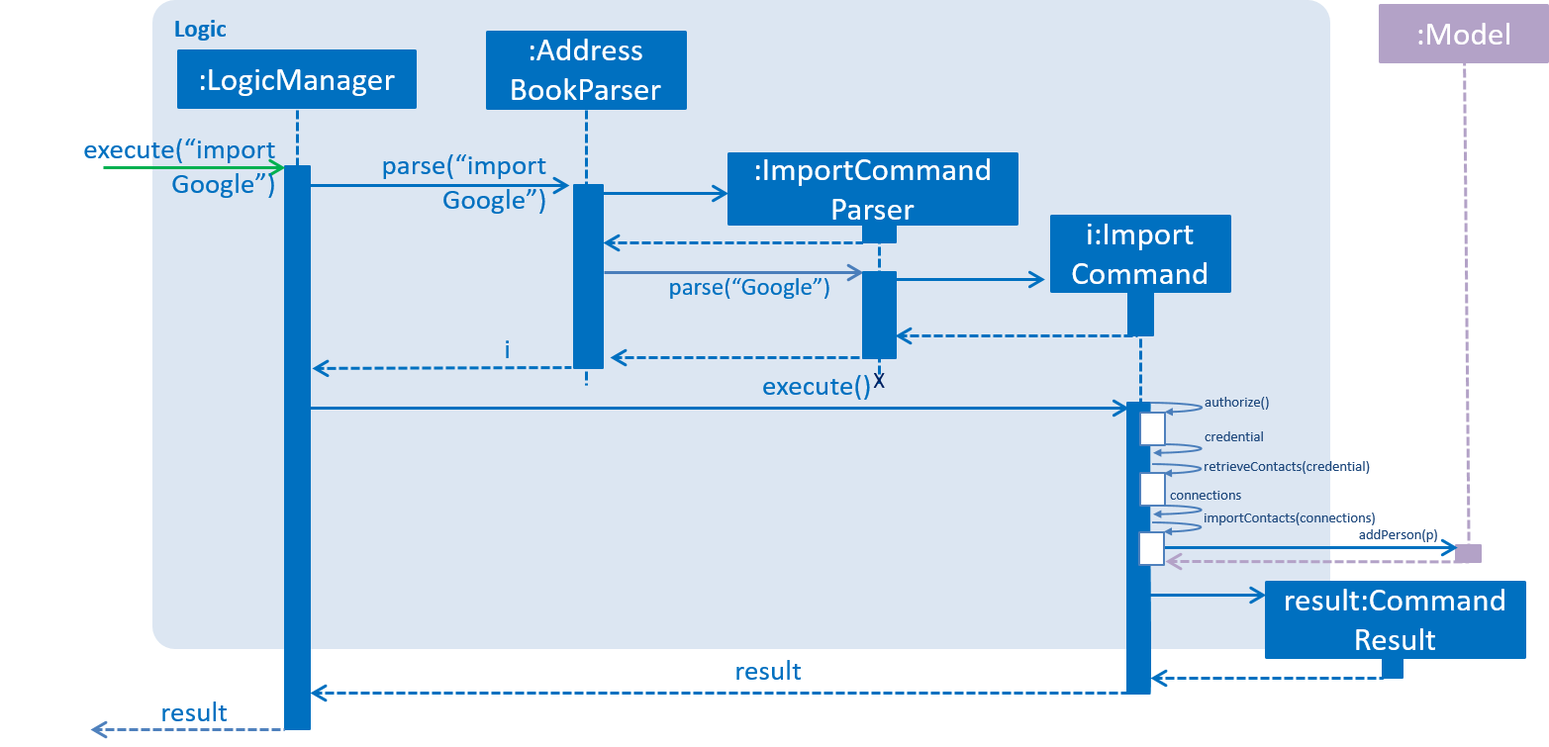
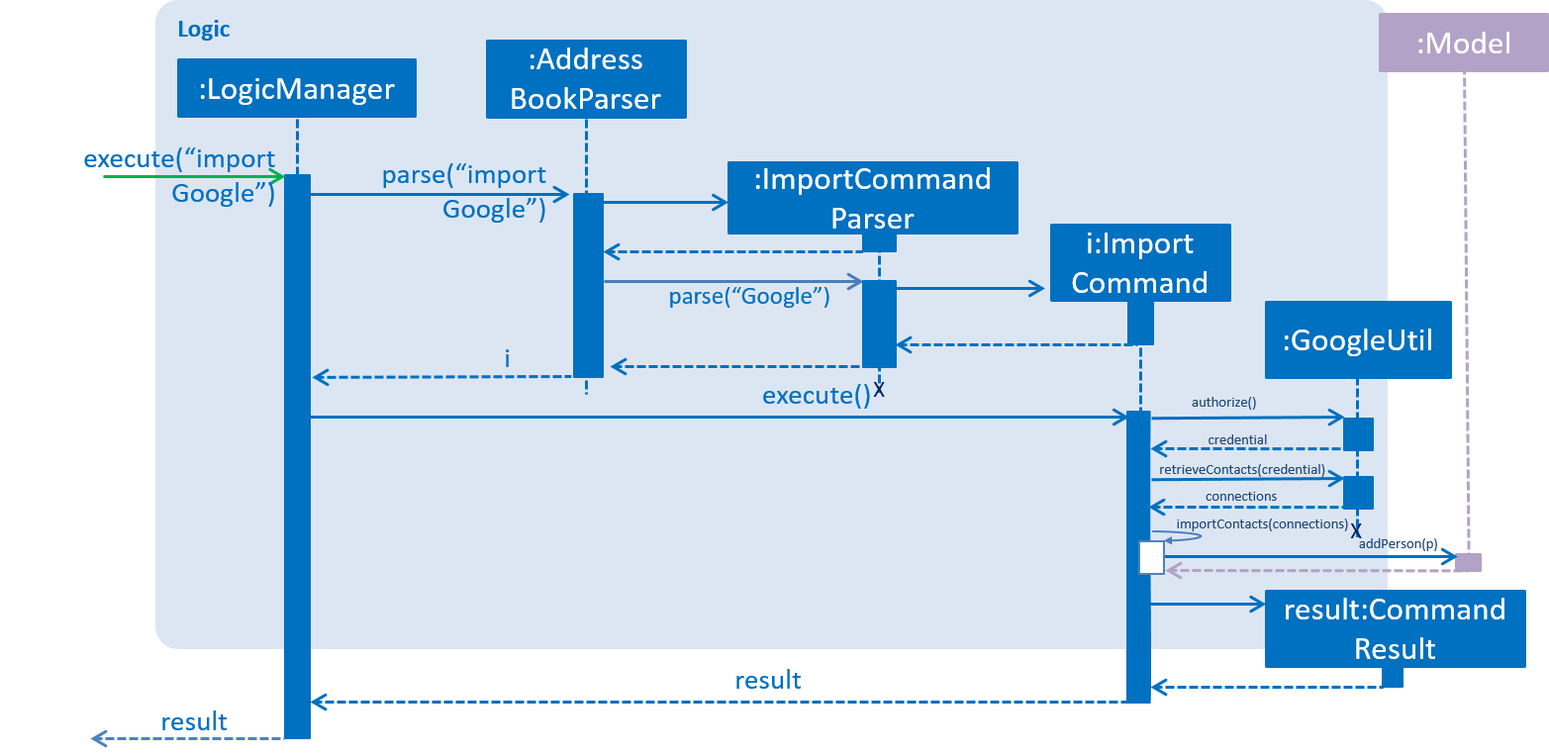
Rebuild pages at 3bc2e81d55f2f054296b56c2175be8b8ce2ba371

diff --git a/team/danielbrzn.html b/team/danielbrzn.html
@@ -103,18 +103,20 @@ will pop up to indicate progress of import.</p>
 <div class="sect2">
 <h3 id="import-mechanism"><a class="link" href="#import-mechanism">Import mechanism</a></h3>
 <div class="paragraph">
-<p>The import mechanism is facilitated by Google&#8217;s People API. It supports reading contacts from the user&#8217;s personal Google account and parsing them into a format that can be added to the address book. The import mechanism only supports
+<p>The import mechanism is facilitated by Google&#8217;s People API. It supports reading up to 1000 contacts from the user&#8217;s personal Google account and parsing them into a format that can be added to the address book. The import mechanism only supports
 adding contacts from Google but iCloud import is scheduled for release in a later version of the application.</p>
 </div>
 <div class="paragraph">
-<p>Before any importing can be done, the address book has to be authorized to request data from Google&#8217;s API. This is done using the OAuth 2.0 protocol as it is the standard used by Google for all of their APIs.
-As there are libraries from Google that make authorization easier, these libraries have been used in the implementation of the import mechanism.</p>
+<p>Before any importing can be done, HitMeUp to be authorized to request data from Google&#8217;s API. This is done using the OAuth 2.0 protocol as it is the standard used by Google for the People API.
+As there are libraries from Google that handle authorization, these libraries have been used in the implementation of the import mechanism.</p>
 </div>
 <div class="paragraph">
-<p>Client information such as the Client ID and Client secret are first loaded into a GoogleClientSecrets object. After which, A GoogleAuthorizationCodeFlow object is set up
-using the GoogleClientSecrets, HttpTransport, JsonFactory objects and the scope of access desired to the user&#8217;s Google Contacts data. In this implementation, we have chosen read-only as we are only importing
-contacts and no modification to the data on Google&#8217;s side will be performed. A AuthorizationCodeInstalledApp object is then created using the previously mentioned GoogleAuthorizationCodeFlow object, and also a LocalServerReceiver object which allows the application to listen on the local
-web server for the authorization code that is provided when the user gives consent to access his/her data.</p>
+<p>Client information such as the Client ID and Client secret are first loaded into a <code>GoogleClientSecrets</code> object. The client secrets are stored in a JSON file and since the executable will be distributed to users, as per
+<a href="https://developers.google.com/identity/protocols/OAuth2InstalledApp">Google&#8217;s OAuth documentation</a>, the client secrets are not treated as a secret in this context. After which, A <code>GoogleAuthorizationCodeFlow</code> object is set up
+using the <code>GoogleClientSecrets</code>, <code>HttpTransport</code>, <code>JsonFactory</code> objects and the scope of access desired to the user&#8217;s Google Contacts data. In this implementation, we have chosen read-only as we are only importing
+contacts and no modification to the user&#8217;s data on Google will be performed. An <code>AuthorizationUtil</code> object is then created using the previously mentioned <code>GoogleAuthorizationCodeFlow</code> object, and also a <code>LocalServerReceiver</code> object which allows the application to listen on the local
+web server for the authorization code that is provided when the user gives consent to access his/her data. The <code>AuthorizationUtil</code> inherits from <code>AuthorizationCodeInstalledApp</code> as the <code>browse</code> method was modified to allow for the authorization
+URL to be opened in the <code>BrowserPanel</code>.</p>
 </div>
 <div class="paragraph">
 <p>After which, the authorization flow can finally begin. The following sequence diagram illustrates this process.</p>
@@ -128,30 +130,75 @@ web server for the authorization code that is provided when the user gives conse
 <p>(Diagram from: <a href="https://developers.google.com/identity/protocols/OAuth2" class="bare">https://developers.google.com/identity/protocols/OAuth2</a>, reused under Creative Commons Attribution 3.0 License)</p>
 </div>
 <div class="paragraph">
-<p>A token is first requested by the AuthorizationCodeInstalledApp object, and a page for the user to login to his/her Google account is shown in the System&#8217;s default web browser.
-Once the user provides consent for the address book to access the data, an authorization code is sent back to the local web server where it is received by the LocalServerReceiver object and passed onto the GoogleAuthorizationCodeFlow
-object so that the code can be exchanged for a token. Once the token is received, a Credential object is created and returned to the executeUndoableCommand method.</p>
+<p>A token is first requested by invoking the <code>authorize</code> method from <code>GoogleUtil</code> where an <code>AuthorizationUtil</code> loads the page for the user to login to his/her Google account in the <code>BrowserPanel</code>.
+Once the user provides consent for the address book to access the data, an authorization code is sent back to the <code>LocalServerReceiver</code> object and passed on to the <code>GoogleAuthorizationCodeFlow</code>
+object so that the code can be exchanged for a token. Once the token is received, a <code>Credential</code> object is created and returned to the <code>executeUndoableCommand</code> method.</p>
 </div>
 <div class="paragraph">
-<p>The Credential object is then passed to a <code>retrieveContacts</code> method that creates a <code>PeopleService</code> object that allows the application to interact with Google&#8217;s People API.
+<p>The Credential object is then passed to a <code>retrieveContacts</code> method from <code>GoogleUtil</code> that creates a <code>PeopleService</code> object that allows the application to interact with Google&#8217;s People API.
 The parameters used to get the list of the user&#8217;s connections (Google&#8217;s term for contacts) are as follows:</p>
 </div>
 <div class="listingblock">
 <div class="content">
 <pre>PageSize: 1000
-PersonFields: Names, EmailAddresses, PhoneNumbers</pre>
+PersonFields: Names, EmailAddresses, PhoneNumbers, Addresses, Birthdays</pre>
 </div>
 </div>
 <div class="paragraph">
 <p>A PageSize (the number of connections to fetch) of 1000 is chosen as it is the amount of contacts that the address book should be able to hold before it gets sluggish.
-The PersonFields chosen are the ones most relevant to storing a contact, and more fields such as addresses will be added in future updates.</p>
+The PersonFields chosen are the ones most relevant to storing a contact in HitMeUp.</p>
 </div>
 <div class="paragraph">
-<p><code>retrieveContacts</code> will then pass the <code>List&lt;Person&gt;</code> of connections back to the caller and finally, a <code>importContacts</code> method will be called on the <code>List&lt;Person&gt;</code>.</p>
+<p><code>retrieveContacts</code> will then pass the <code>List&lt;Person&gt;</code> of connections back to the caller and finally, the <code>importContacts</code> method will be called on the <code>List&lt;Person&gt;</code>.</p>
+</div>
+<div class="paragraph">
+<p>Refer to the code example below for implementation of the <code>importContacts</code> method:<br></p>
+</div>
+<div class="ulist">
+<ul>
+<li>
+<p>Code listing:</p>
+<div class="listingblock">
+<div class="content">
+<pre class="CodeRay highlight"><code data-lang="java"><span class="comment">/**
+  * Imports contacts into the application using the given {@code List&lt;Person&gt;}
+  */</span>
+    <span class="directive">public</span> <span class="type">void</span> importContacts(<span class="predefined-type">List</span>&lt;Person&gt; connections) {
+
+        Task&lt;<span class="predefined-type">Void</span>&gt; task = <span class="keyword">new</span> Task&lt;<span class="predefined-type">Void</span>&gt;() {
+            <span class="annotation">@Override</span>
+            <span class="directive">protected</span> <span class="predefined-type">Void</span> call() <span class="directive">throws</span> <span class="exception">Exception</span> {
+
+                <span class="type">int</span> amountToAdd = connections.size();
+                invalidPeople = <span class="keyword">new</span> <span class="predefined-type">ArrayList</span>&lt;<span class="predefined-type">String</span>&gt;();
+                <span class="keyword">for</span> (Person person : connections) {
+                    seedu.address.model.person.Person toAdd = GoogleUtil.convertPerson(person);
+                    <span class="keyword">if</span> (toAdd == <span class="predefined-constant">null</span>) {
+                        invalidPeople.add(person.getNames().get(FIRST_PERSON_INDEX).getDisplayName());
+                        <span class="keyword">continue</span>;
+                    }
+                    <span class="keyword">try</span> {
+                        model.addPerson(toAdd);
+                        peopleAdded++;
+                    } <span class="keyword">catch</span> (DuplicatePersonException e) {
+                        e.printStackTrace();
+                    }
+                    updateProgress(peopleAdded, amountToAdd);
+                }
+                <span class="keyword">return</span> <span class="predefined-constant">null</span>;
+            }
+        };
+
+        <span class="comment">// housekeeping code for the start/end of the Task</span>
+    }</code></pre>
+</div>
+</div>
+</li>
+</ul>
 </div>
 <div class="paragraph">
 <p>The <code>importContacts</code> method is implemented using the <code>Task</code> class from JavaFX and takes care of importing contacts to the address book. <code>importContacts</code> is run in a separate <code>Thread</code> from the main program.
-It parses every connection from the <code>List&lt;Person&gt;</code> using a <code>convertPerson</code> method that converts a <code>Person</code> object to a <code>seedu.address.model.person.Person</code> such that it can be added to the address book.
+It parses every connection from the <code>List&lt;Person&gt;</code> using a <code>convertPerson</code> method in <code>GoogleUtil</code> that converts a <code>Person</code> object to a <code>seedu.address.model.person.Person</code> such that it can be added to the address book.
 A progress bar for importing is also shown to the user, implemented using the <code>progressProperty()</code> method of the <code>Task</code> class.</p>
 </div>
 <div class="paragraph">
@@ -192,12 +239,13 @@ Threading has to be used to allow the progress bar to update as the <code>import
 <hr>
 <div class="paragraph">
 <p><strong>Aspect:</strong> Implementation of authorization<br>
-<strong>Alternative 1 (current choice):</strong> Pop-up the authorization page in the user&#8217;s default browser<br>
-<strong>Pros:</strong> Easy for the user to authorize as they may already be logged in to their Google account on their browsers.<br>
-<strong>Cons:</strong> Takes the focus away from the main application to the user&#8217;s default browser, which may be a jarring user experience.<br>
-<strong>Alternative 2:</strong> Use the existing browser panel to show the authorization page<br>
+<strong>Alternative 1 (current choice):</strong> Use the <code>BrowserPanel</code> to show the authorization page<br>
 <strong>Pros:</strong> Clearer for the user to understand and focus is kept on the main application.<br>
-<strong>Cons:</strong> Requires implementing a new class to listen on the local web server for the authorization code instead of using the provided <code>LocalServerReceiver</code> from the Google Client Library.<br></p>
+<strong>Cons:</strong> Requires implementing a new class as modification to the existing classes provided by the Google Libraries is needed to allow for the<br>
+authorization URL to be shown in the <code>BrowserPanel</code><br>
+<strong>Alternative 2 :</strong> Pop-up the authorization page in the user&#8217;s default browser<br>
+<strong>Pros:</strong> Easy for the user to authorize as they may already be logged in to their Google account on their browsers.<br>
+<strong>Cons:</strong> Takes the focus away from the main application to the user&#8217;s default browser, which may be a jarring user experience.<br></p>
 </div>
 <div class="paragraph">
 <p><mark>End of Extract</mark></p>
@@ -233,7 +281,7 @@ Threading has to be used to allow the progress bar to update as the <code>import
 </div>
 <div id="footer">
 <div id="footer-text">
-Last updated 2017-11-11 12:45:32 +00:00
+Last updated 2017-11-11 15:29:52 +00:00
 </div>
 </div>
 </body>

diff --git a/DeveloperGuide.html b/DeveloperGuide.html
@@ -975,18 +975,20 @@ it is difficult to authorize every email services as some services such as Gmail
 <div class="sect2">
 <h3 id="import-mechanism"><a class="link" href="#import-mechanism">5.3. Import mechanism</a></h3>
 <div class="paragraph">
-<p>The import mechanism is facilitated by Google&#8217;s People API. It supports reading contacts from the user&#8217;s personal Google account and parsing them into a format that can be added to the address book. The import mechanism only supports
+<p>The import mechanism is facilitated by Google&#8217;s People API. It supports reading up to 1000 contacts from the user&#8217;s personal Google account and parsing them into a format that can be added to the address book. The import mechanism only supports
 adding contacts from Google but iCloud import is scheduled for release in a later version of the application.</p>
 </div>
 <div class="paragraph">
-<p>Before any importing can be done, the address book has to be authorized to request data from Google&#8217;s API. This is done using the OAuth 2.0 protocol as it is the standard used by Google for all of their APIs.
-As there are libraries from Google that make authorization easier, these libraries have been used in the implementation of the import mechanism.</p>
+<p>Before any importing can be done, HitMeUp to be authorized to request data from Google&#8217;s API. This is done using the OAuth 2.0 protocol as it is the standard used by Google for the People API.
+As there are libraries from Google that handle authorization, these libraries have been used in the implementation of the import mechanism.</p>
 </div>
 <div class="paragraph">
-<p>Client information such as the Client ID and Client secret are first loaded into a GoogleClientSecrets object. After which, A GoogleAuthorizationCodeFlow object is set up
-using the GoogleClientSecrets, HttpTransport, JsonFactory objects and the scope of access desired to the user&#8217;s Google Contacts data. In this implementation, we have chosen read-only as we are only importing
-contacts and no modification to the data on Google&#8217;s side will be performed. A AuthorizationCodeInstalledApp object is then created using the previously mentioned GoogleAuthorizationCodeFlow object, and also a LocalServerReceiver object which allows the application to listen on the local
-web server for the authorization code that is provided when the user gives consent to access his/her data.</p>
+<p>Client information such as the Client ID and Client secret are first loaded into a <code>GoogleClientSecrets</code> object. The client secrets are stored in a JSON file and since the executable will be distributed to users, as per
+<a href="https://developers.google.com/identity/protocols/OAuth2InstalledApp">Google&#8217;s OAuth documentation</a>, the client secrets are not treated as a secret in this context. After which, A <code>GoogleAuthorizationCodeFlow</code> object is set up
+using the <code>GoogleClientSecrets</code>, <code>HttpTransport</code>, <code>JsonFactory</code> objects and the scope of access desired to the user&#8217;s Google Contacts data. In this implementation, we have chosen read-only as we are only importing
+contacts and no modification to the user&#8217;s data on Google will be performed. An <code>AuthorizationUtil</code> object is then created using the previously mentioned <code>GoogleAuthorizationCodeFlow</code> object, and also a <code>LocalServerReceiver</code> object which allows the application to listen on the local
+web server for the authorization code that is provided when the user gives consent to access his/her data. The <code>AuthorizationUtil</code> inherits from <code>AuthorizationCodeInstalledApp</code> as the <code>browse</code> method was modified to allow for the authorization
+URL to be opened in the <code>BrowserPanel</code>.</p>
 </div>
 <div class="paragraph">
 <p>After which, the authorization flow can finally begin. The following sequence diagram illustrates this process.</p>
@@ -1000,30 +1002,75 @@ web server for the authorization code that is provided when the user gives conse
 <p>(Diagram from: <a href="https://developers.google.com/identity/protocols/OAuth2" class="bare">https://developers.google.com/identity/protocols/OAuth2</a>, reused under Creative Commons Attribution 3.0 License)</p>
 </div>
 <div class="paragraph">
-<p>A token is first requested by the AuthorizationCodeInstalledApp object, and a page for the user to login to his/her Google account is shown in the System&#8217;s default web browser.
-Once the user provides consent for the address book to access the data, an authorization code is sent back to the local web server where it is received by the LocalServerReceiver object and passed onto the GoogleAuthorizationCodeFlow
-object so that the code can be exchanged for a token. Once the token is received, a Credential object is created and returned to the executeUndoableCommand method.</p>
+<p>A token is first requested by invoking the <code>authorize</code> method from <code>GoogleUtil</code> where an <code>AuthorizationUtil</code> loads the page for the user to login to his/her Google account in the <code>BrowserPanel</code>.
+Once the user provides consent for the address book to access the data, an authorization code is sent back to the <code>LocalServerReceiver</code> object and passed on to the <code>GoogleAuthorizationCodeFlow</code>
+object so that the code can be exchanged for a token. Once the token is received, a <code>Credential</code> object is created and returned to the <code>executeUndoableCommand</code> method.</p>
 </div>
 <div class="paragraph">
-<p>The Credential object is then passed to a <code>retrieveContacts</code> method that creates a <code>PeopleService</code> object that allows the application to interact with Google&#8217;s People API.
+<p>The Credential object is then passed to a <code>retrieveContacts</code> method from <code>GoogleUtil</code> that creates a <code>PeopleService</code> object that allows the application to interact with Google&#8217;s People API.
 The parameters used to get the list of the user&#8217;s connections (Google&#8217;s term for contacts) are as follows:</p>
 </div>
 <div class="listingblock">
 <div class="content">
 <pre>PageSize: 1000
-PersonFields: Names, EmailAddresses, PhoneNumbers</pre>
+PersonFields: Names, EmailAddresses, PhoneNumbers, Addresses, Birthdays</pre>
 </div>
 </div>
 <div class="paragraph">
 <p>A PageSize (the number of connections to fetch) of 1000 is chosen as it is the amount of contacts that the address book should be able to hold before it gets sluggish.
-The PersonFields chosen are the ones most relevant to storing a contact, and more fields such as addresses will be added in future updates.</p>
+The PersonFields chosen are the ones most relevant to storing a contact in HitMeUp.</p>
 </div>
 <div class="paragraph">
-<p><code>retrieveContacts</code> will then pass the <code>List&lt;Person&gt;</code> of connections back to the caller and finally, a <code>importContacts</code> method will be called on the <code>List&lt;Person&gt;</code>.</p>
+<p><code>retrieveContacts</code> will then pass the <code>List&lt;Person&gt;</code> of connections back to the caller and finally, the <code>importContacts</code> method will be called on the <code>List&lt;Person&gt;</code>.</p>
+</div>
+<div class="paragraph">
+<p>Refer to the code example below for implementation of the <code>importContacts</code> method:<br></p>
+</div>
+<div class="ulist">
+<ul>
+<li>
+<p>Code listing:</p>
+<div class="listingblock">
+<div class="content">
+<pre class="CodeRay highlight"><code data-lang="java"><span class="comment">/**
+  * Imports contacts into the application using the given {@code List&lt;Person&gt;}
+  */</span>
+    <span class="directive">public</span> <span class="type">void</span> importContacts(<span class="predefined-type">List</span>&lt;Person&gt; connections) {
+
+        Task&lt;<span class="predefined-type">Void</span>&gt; task = <span class="keyword">new</span> Task&lt;<span class="predefined-type">Void</span>&gt;() {
+            <span class="annotation">@Override</span>
+            <span class="directive">protected</span> <span class="predefined-type">Void</span> call() <span class="directive">throws</span> <span class="exception">Exception</span> {
+
+                <span class="type">int</span> amountToAdd = connections.size();
+                invalidPeople = <span class="keyword">new</span> <span class="predefined-type">ArrayList</span>&lt;<span class="predefined-type">String</span>&gt;();
+                <span class="keyword">for</span> (Person person : connections) {
+                    seedu.address.model.person.Person toAdd = GoogleUtil.convertPerson(person);
+                    <span class="keyword">if</span> (toAdd == <span class="predefined-constant">null</span>) {
+                        invalidPeople.add(person.getNames().get(FIRST_PERSON_INDEX).getDisplayName());
+                        <span class="keyword">continue</span>;
+                    }
+                    <span class="keyword">try</span> {
+                        model.addPerson(toAdd);
+                        peopleAdded++;
+                    } <span class="keyword">catch</span> (DuplicatePersonException e) {
+                        e.printStackTrace();
+                    }
+                    updateProgress(peopleAdded, amountToAdd);
+                }
+                <span class="keyword">return</span> <span class="predefined-constant">null</span>;
+            }
+        };
+
+        <span class="comment">// housekeeping code for the start/end of the Task</span>
+    }</code></pre>
+</div>
+</div>
+</li>
+</ul>
 </div>
 <div class="paragraph">
 <p>The <code>importContacts</code> method is implemented using the <code>Task</code> class from JavaFX and takes care of importing contacts to the address book. <code>importContacts</code> is run in a separate <code>Thread</code> from the main program.
-It parses every connection from the <code>List&lt;Person&gt;</code> using a <code>convertPerson</code> method that converts a <code>Person</code> object to a <code>seedu.address.model.person.Person</code> such that it can be added to the address book.
+It parses every connection from the <code>List&lt;Person&gt;</code> using a <code>convertPerson</code> method in <code>GoogleUtil</code> that converts a <code>Person</code> object to a <code>seedu.address.model.person.Person</code> such that it can be added to the address book.
 A progress bar for importing is also shown to the user, implemented using the <code>progressProperty()</code> method of the <code>Task</code> class.</p>
 </div>
 <div class="paragraph">
@@ -1064,12 +1111,13 @@ Threading has to be used to allow the progress bar to update as the <code>import
 <hr>
 <div class="paragraph">
 <p><strong>Aspect:</strong> Implementation of authorization<br>
-<strong>Alternative 1 (current choice):</strong> Pop-up the authorization page in the user&#8217;s default browser<br>
-<strong>Pros:</strong> Easy for the user to authorize as they may already be logged in to their Google account on their browsers.<br>
-<strong>Cons:</strong> Takes the focus away from the main application to the user&#8217;s default browser, which may be a jarring user experience.<br>
-<strong>Alternative 2:</strong> Use the existing browser panel to show the authorization page<br>
+<strong>Alternative 1 (current choice):</strong> Use the <code>BrowserPanel</code> to show the authorization page<br>
 <strong>Pros:</strong> Clearer for the user to understand and focus is kept on the main application.<br>
-<strong>Cons:</strong> Requires implementing a new class to listen on the local web server for the authorization code instead of using the provided <code>LocalServerReceiver</code> from the Google Client Library.<br></p>
+<strong>Cons:</strong> Requires implementing a new class as modification to the existing classes provided by the Google Libraries is needed to allow for the<br>
+authorization URL to be shown in the <code>BrowserPanel</code><br>
+<strong>Alternative 2 :</strong> Pop-up the authorization page in the user&#8217;s default browser<br>
+<strong>Pros:</strong> Easy for the user to authorize as they may already be logged in to their Google account on their browsers.<br>
+<strong>Cons:</strong> Takes the focus away from the main application to the user&#8217;s default browser, which may be a jarring user experience.<br></p>
 </div>
 </div>
 </div>
@@ -2537,7 +2585,7 @@ name and address information for use in AddressBook.</pre>
 </div>
 <div id="footer">
 <div id="footer-text">
-Last updated 2017-11-11 12:45:32 +00:00
+Last updated 2017-11-11 15:29:52 +00:00
 </div>
 </div>
 </body>

diff --git a/AboutUs.html b/AboutUs.html
@@ -112,7 +112,7 @@ Responsibilities: In charge of Storage, Documentation, Scheduling and tracking</
 </div>
 <div id="footer">
 <div id="footer-text">
-Last updated 2017-11-11 12:45:32 +00:00
+Last updated 2017-11-11 15:29:52 +00:00
 </div>
 </div>
 </body>

diff --git a/LearningOutcomes.html b/LearningOutcomes.html
@@ -561,7 +561,7 @@ class gives some examples of how to use <em>Equivalence Partitions</em>, <em>Bou
 </div>
 <div id="footer">
 <div id="footer-text">
-Last updated 2017-11-11 12:45:32 +00:00
+Last updated 2017-11-11 15:29:52 +00:00
 </div>
 </div>
 </body>

diff --git a/UsingGradle.html b/UsingGradle.html
@@ -261,7 +261,7 @@ See <code>build.gradle</code> &#8594; <code>allprojects</code> &#8594; <code>dep
 </div>
 <div id="footer">
 <div id="footer-text">
-Last updated 2017-11-11 12:45:32 +00:00
+Last updated 2017-11-11 15:29:52 +00:00
 </div>
 </div>
 </body>

diff --git a/index.html b/index.html
@@ -179,7 +179,7 @@ in the application itself without having to switch to a browser or check their p
 </div>
 <div id="footer">
 <div id="footer-text">
-Last updated 2017-11-11 12:45:32 +00:00
+Last updated 2017-11-11 15:29:52 +00:00
 </div>
 </div>
 </body>

diff --git a/team/conantteo.html b/team/conantteo.html
@@ -452,7 +452,7 @@ it is difficult to authorize every email services as some services such as Gmail
 </div>
 <div id="footer">
 <div id="footer-text">
-Last updated 2017-11-11 12:45:32 +00:00
+Last updated 2017-11-11 15:29:52 +00:00
 </div>
 </div>
 </body>

diff --git a/team/johndoe.html b/team/johndoe.html
@@ -360,7 +360,7 @@ If the <code>redoStack</code> is empty, then there are no other commands left to
 </div>
 <div id="footer">
 <div id="footer-text">
-Last updated 2017-11-11 12:45:32 +00:00
+Last updated 2017-11-11 15:29:52 +00:00
 </div>
 </div>
 </body>

diff --git a/UsingTravis.html b/UsingTravis.html
@@ -299,7 +299,7 @@ Suggested change: Remove the codacy badge from <code>README</code>.</p>
 </div>
 <div id="footer">
 <div id="footer-text">
-Last updated 2017-11-11 12:45:32 +00:00
+Last updated 2017-11-11 15:29:52 +00:00
 </div>
 </div>
 </body>

diff --git a/UsingCheckstyle.html b/UsingCheckstyle.html
@@ -103,7 +103,7 @@ Restart the IDE to complete the installation.</p>
 </div>
 <div id="footer">
 <div id="footer-text">
-Last updated 2017-11-11 12:45:32 +00:00
+Last updated 2017-11-11 15:29:52 +00:00
 </div>
 </div>
 </body>

diff --git a/UserGuide.html b/UserGuide.html
@@ -1037,7 +1037,7 @@ e.g. <code>social 1 ig</code></p>
 </div>
 <div id="footer">
 <div id="footer-text">
-Last updated 2017-11-11 12:45:32 +00:00
+Last updated 2017-11-11 15:29:52 +00:00
 </div>
 </div>
 </body>

diff --git a/TestDocument.html b/TestDocument.html
@@ -178,7 +178,7 @@ This should be on a new line.</p>
 </div>
 <div id="footer">
 <div id="footer-text">
-Last updated 2017-11-11 12:45:32 +00:00
+Last updated 2017-11-11 15:29:52 +00:00
 </div>
 </div>
 </body>
